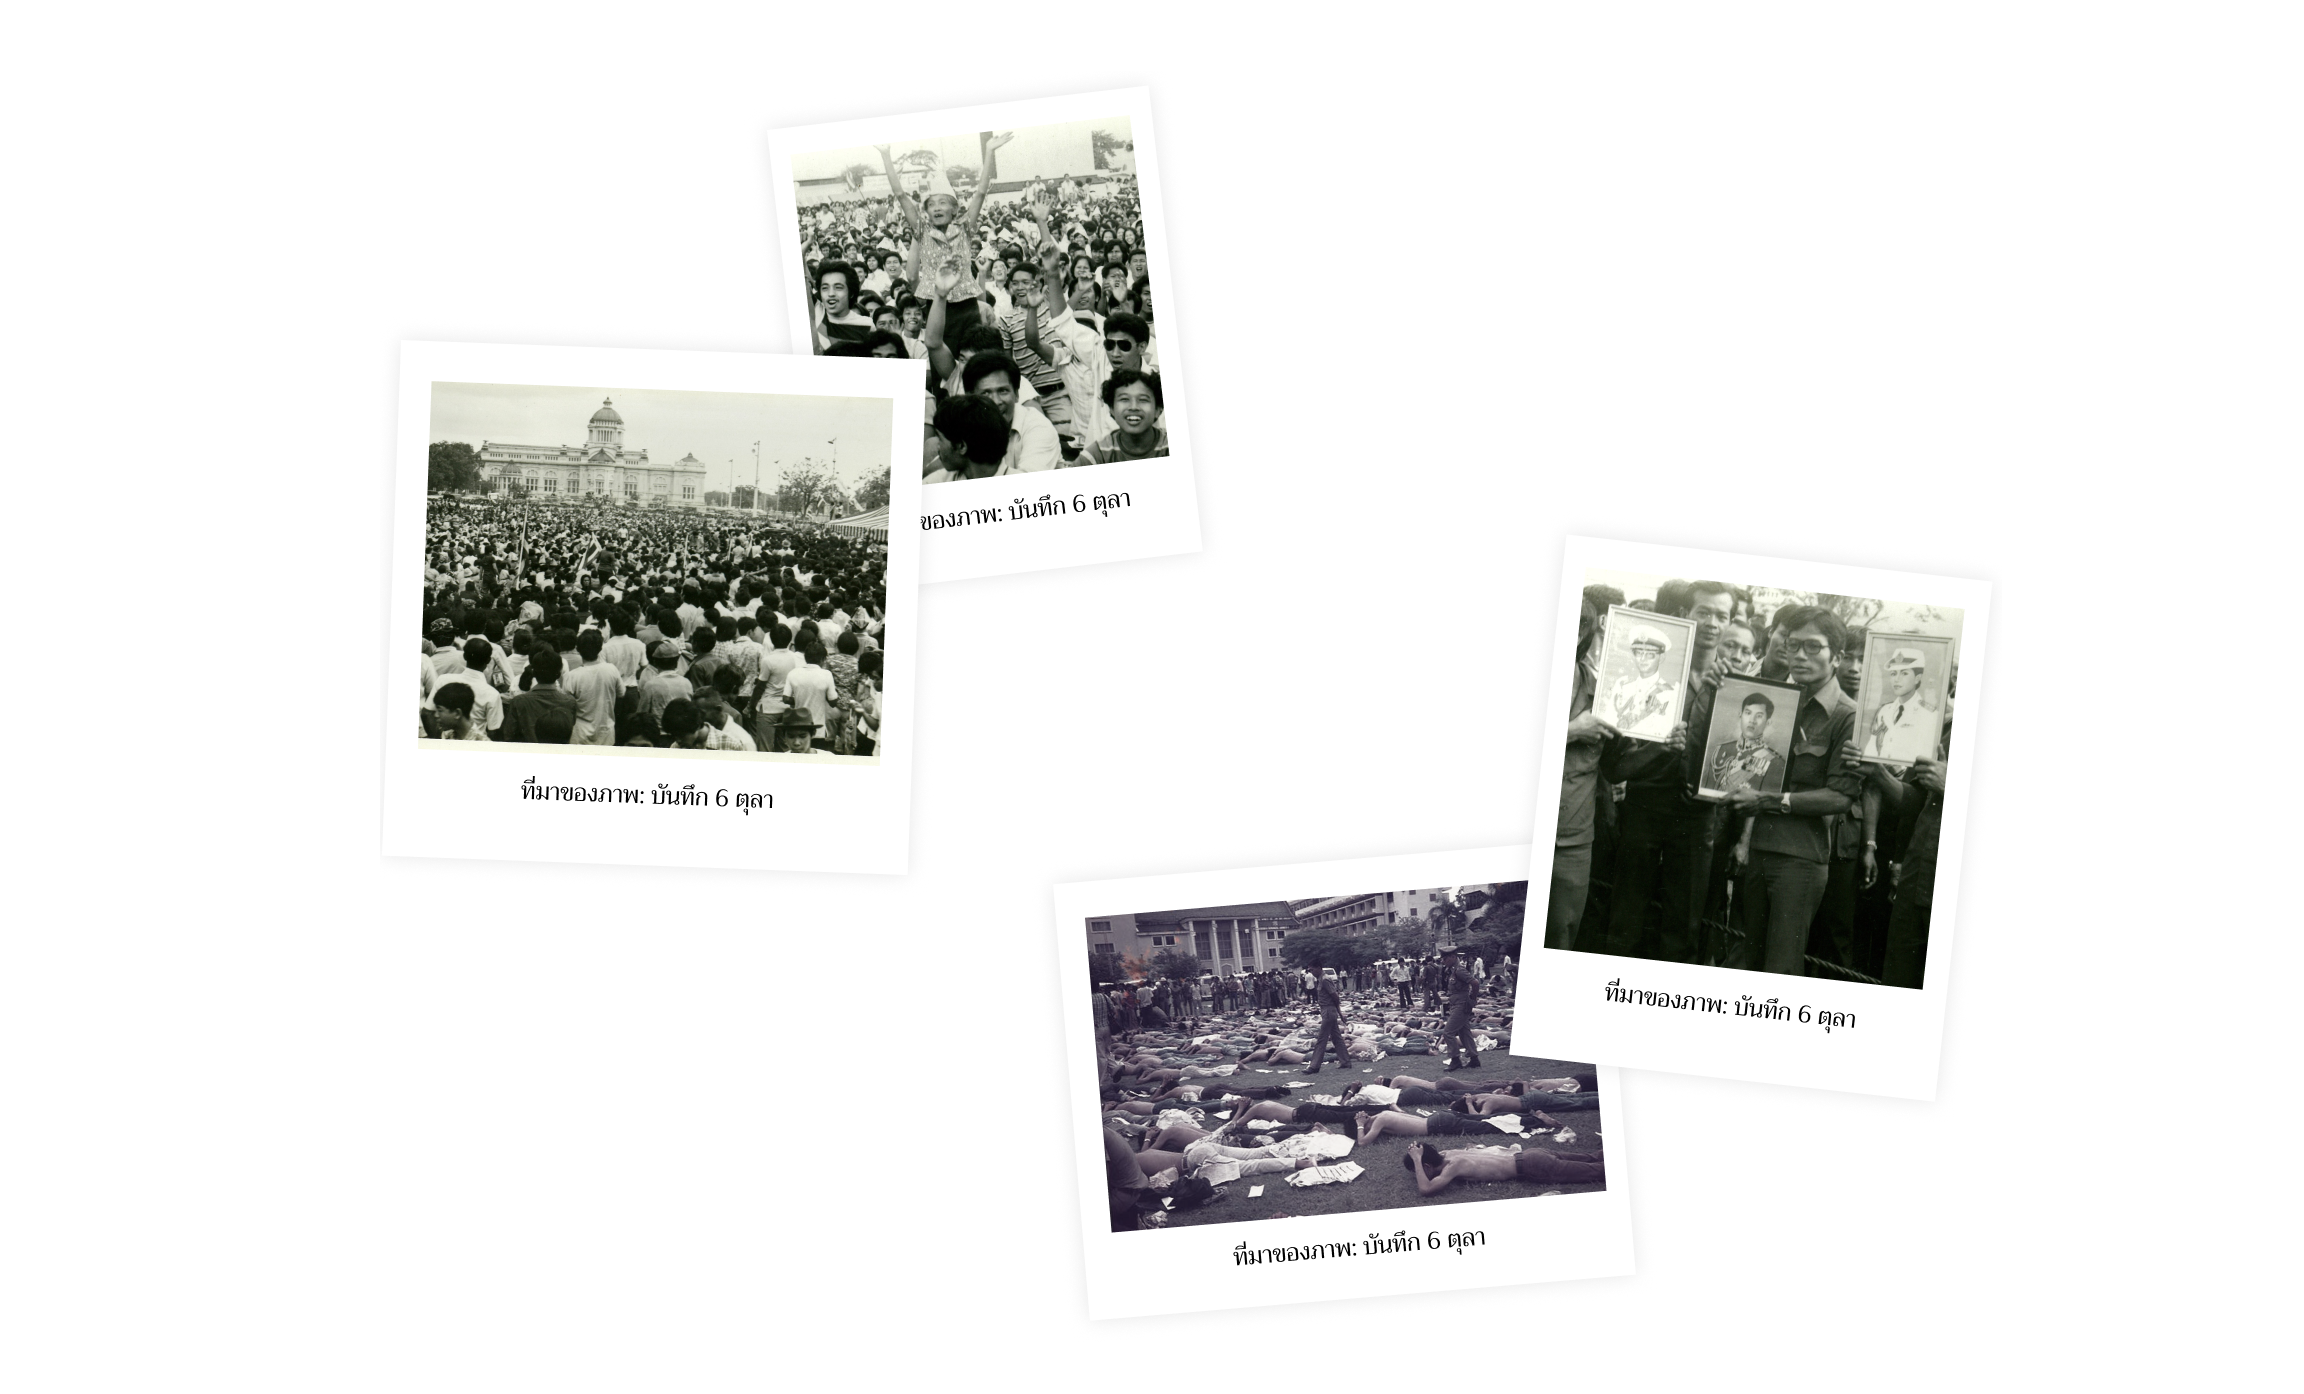
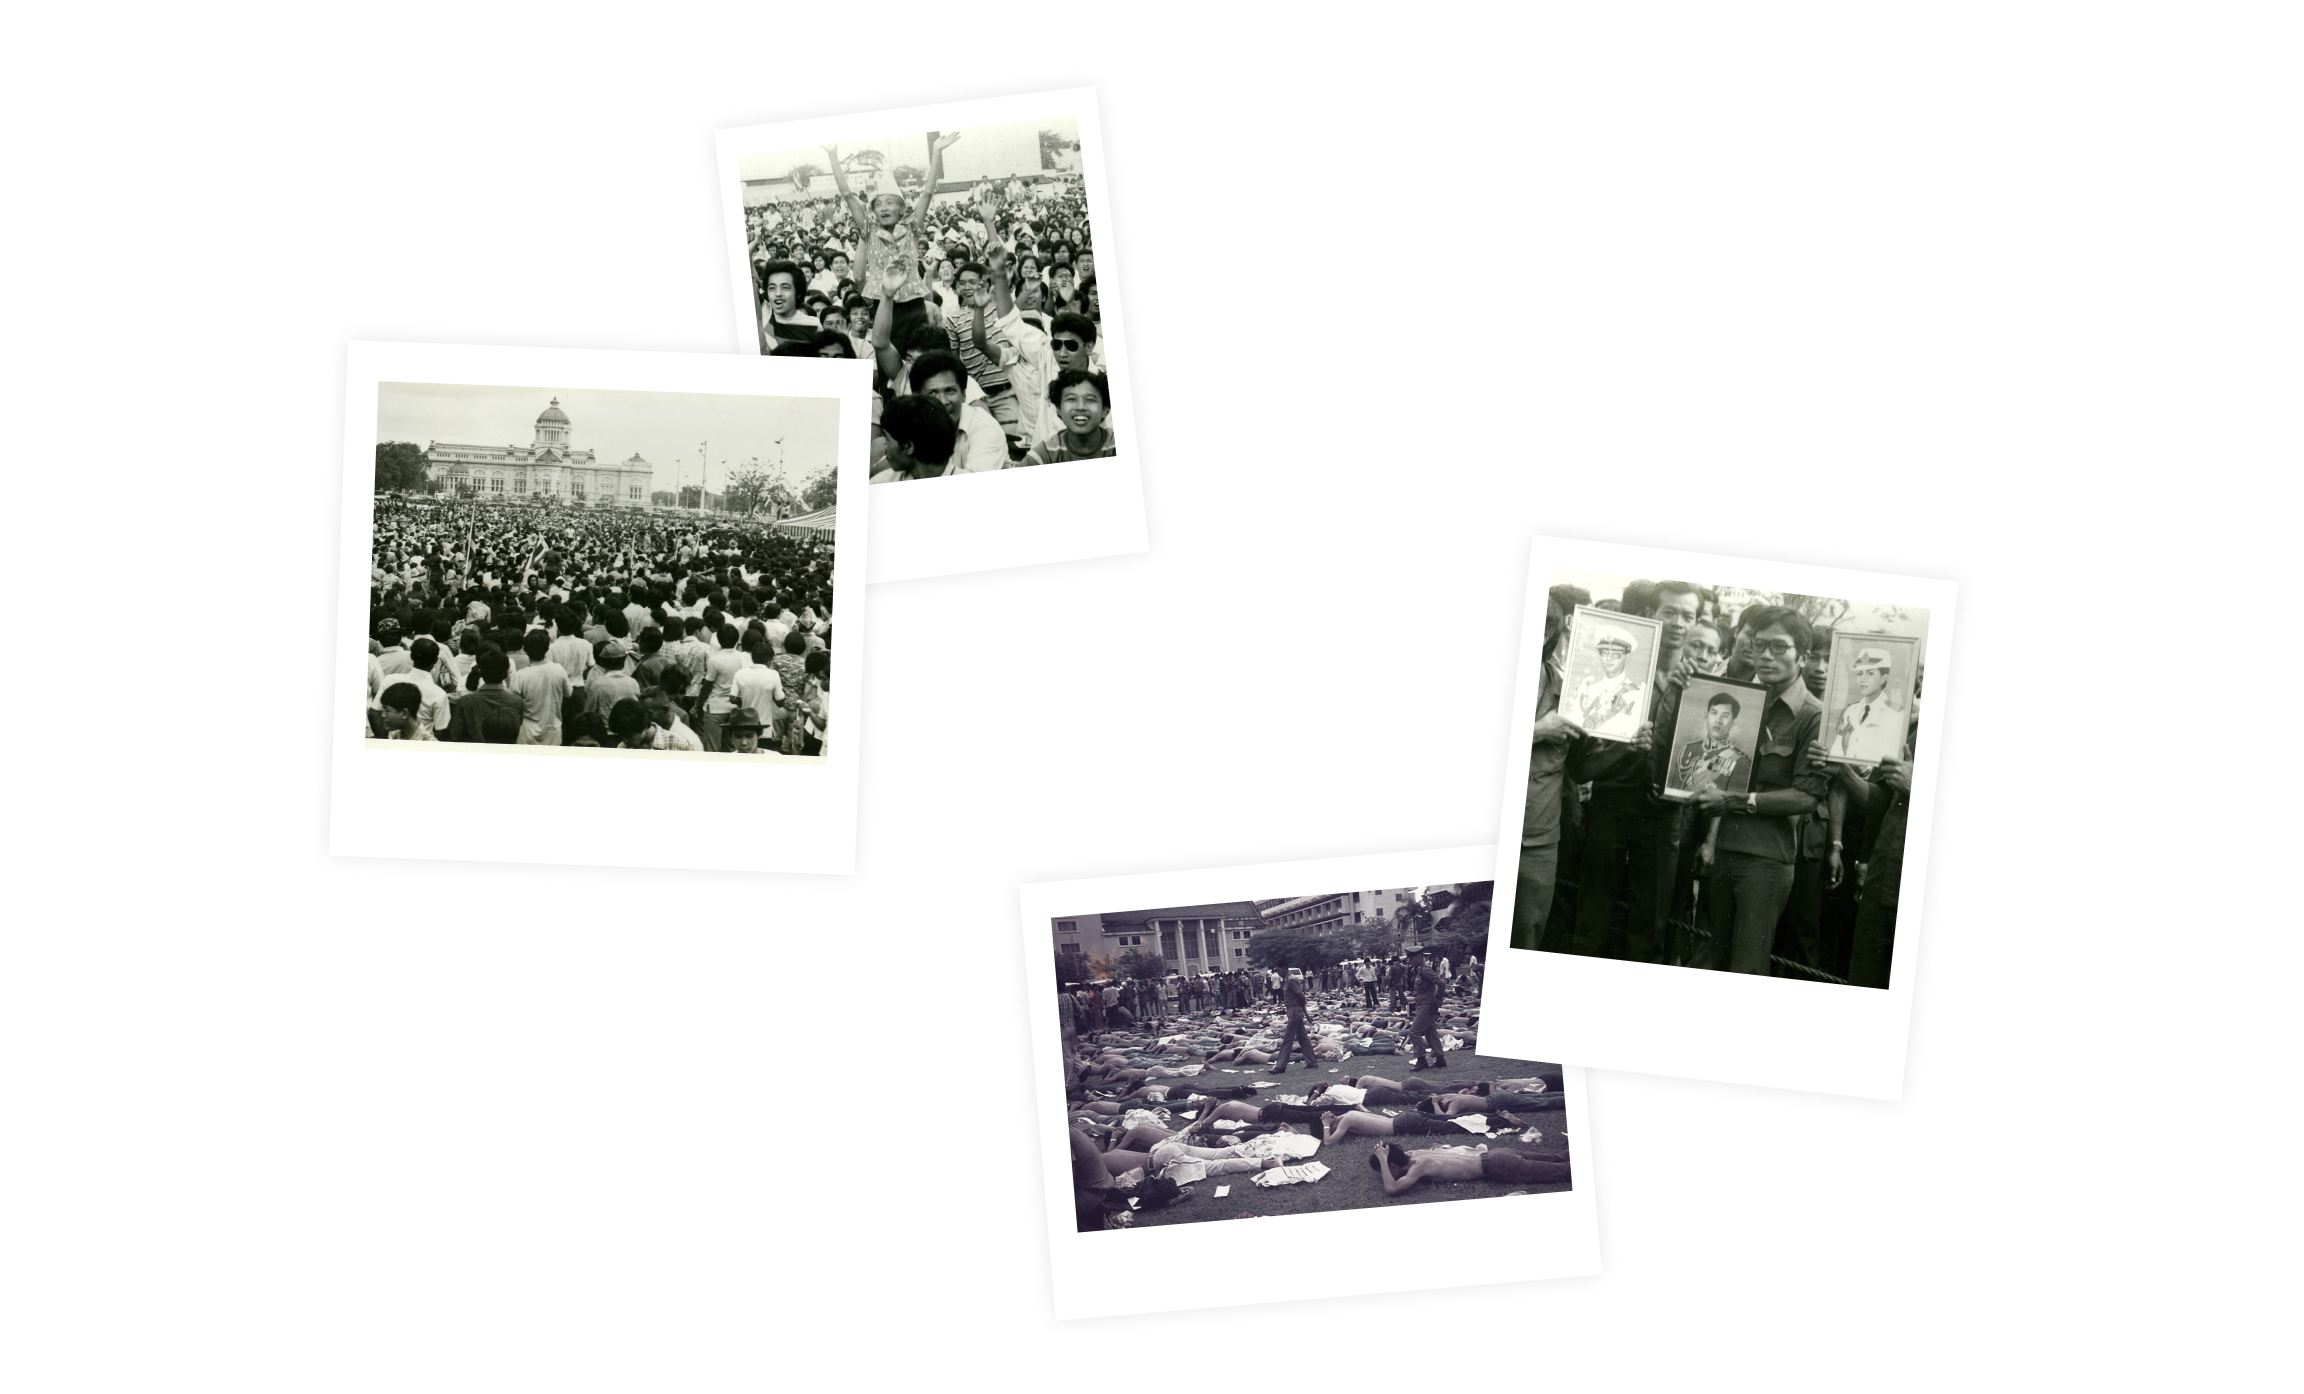
🍱 Update image set by removing image credit

Changed region(s): [[0.4375, 0.401, 0.875, 0.9254], [0.1562, 0.0925, 0.5312, 0.5861]]

diff --git a/src/pages/intro.vue b/src/pages/intro.vue
@@ -8,11 +8,14 @@
         class="flex flex-col justify-center pb-5 pt-5 relative px-20 <md:px-0 h-screen items-center"
         :style="{backgroundColor: item.bgColor}"
       >
-        <div :id="`el-text-${key}`" class="max-w-[700px] <xl:(max-w-[600px]) <md:(max-w-[300px]) w-full overflow-hidden flex flex-col text-center transition-all duration-2500 px-5 " :class="`${(key === presentNum) ? 'opacity-100': 'opacity-0'}`">
+        <div :id="`el-text-${key}`" class="max-w-[700px] <xl:(max-w-[600px]) <md:(max-w-[400px]) w-full overflow-hidden flex flex-col text-center transition-all duration-2500 px-5 " :class="`${(key === presentNum) ? 'opacity-100': 'opacity-0'}`">
           <ParagraphText v-for="(text, idx) of item.details" :id="`el-text-${key}`" :key="`text-${idx}`" class="transition-all mb-7 z-50 text-size-[1.75rem] leading-12 <xl:(text-size-[1.5rem] leading-10) <md:(text-size-[1.25rem] leading-8) break-words" :style="{ color: item.textColor}">
             {{ text }}
           </ParagraphText>
-          <img v-if="key === 1" alt="รูปอัลบั้ม" class="absolute h-screen bottom-0 left-0 object-center object-contain w-full lg:hidden" src="../assets/image_set_small.png">
+          <ParagraphText v-if="key === 1" class="absolute bottom-5 left-5 text-size-[1.4rem] leading-12 <xl:(text-size-[1.2rem] leading-10) <md:(text-size-[1.1rem] leading-8)">
+            ที่มาของภาพ: บันทึก 6 ตุลา
+          </ParagraphText>
+          <img v-if="key === 1" alt="รูปอัลบั้ม" class="absolute h-screen bottom-0 left-0 object-center object-contain w-full lg:hidden pb-10" src="../assets/image_set_small.png">
           <img v-if="key === 1" alt="รูปอัลบั้ม" class="absolute h-screen bottom-0 left-0 object-center object-contain w-full <lg:hidden" src="../assets/image_set_large.png">
           <img v-if="key === 2" alt="รูปเก้าอี้" class="h-screen w-full absolute top-0 bottom-0 object-contain left-0 right-0" src="../assets/chair.png">
           <img v-if="key === 3" alt="รูปอนุสาวรีย์" class="absolute w-full min-w-[600px] bottom-0 left-0 object-contain xl:(-my-20)" src="../assets/continue.svg">
